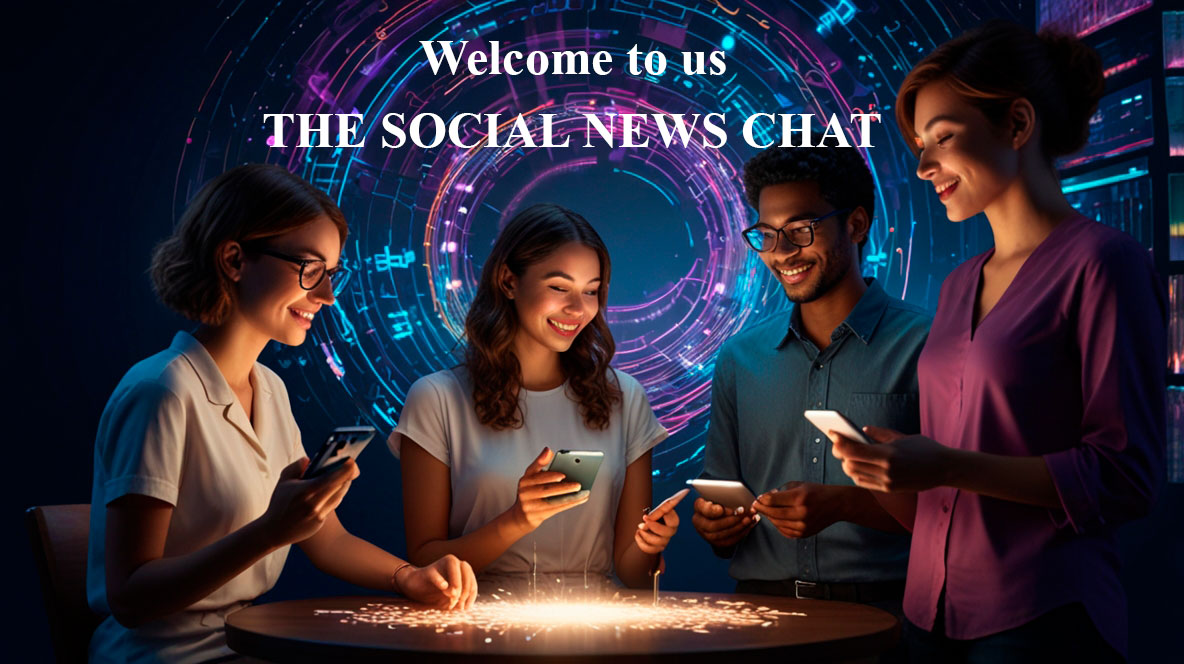
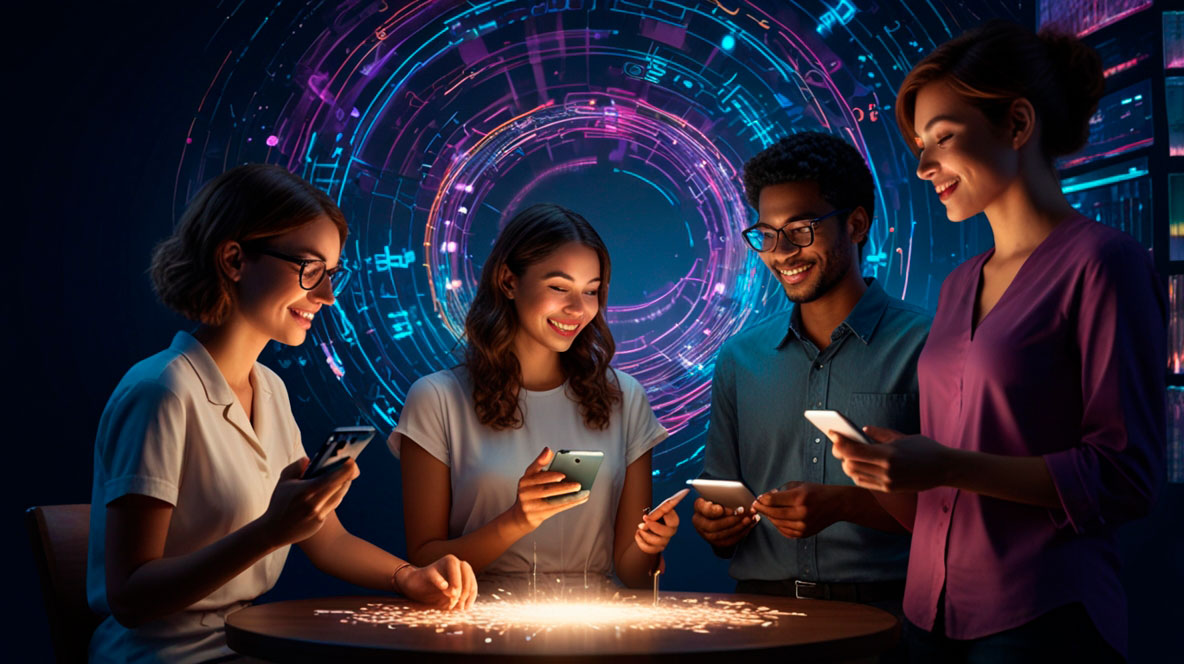
Добавлена приветственная страница, улучшен дизайн base.html, home.html

Changed region(s): [[0.2188, 0.1506, 0.75, 0.241], [0.3438, 0.0602, 0.625, 0.1205]]

diff --git a/templates/base.html b/templates/base.html
@@ -1,5 +1,6 @@
-{% load static %}
 <!DOCTYPE html>
+{% load static %}
+
 <html lang="ru">
 <head>
   <meta charset="UTF-8">
@@ -10,7 +11,6 @@
   <script src="https://cdn.jsdelivr.net/npm/bootstrap@5.3.0/dist/js/bootstrap.bundle.min.js"></script>
 
   <style>
-    /* Устанавливаем фон для страницы */
     body {
         background-image: url("{% static 'images/backgraunt.jpg' %}");
         background-size: cover;
@@ -24,7 +24,7 @@
         flex-direction: column;
     }
 
-        .navbar {
+    .navbar {
         position: fixed;
         top: 0;
         left: 0;
@@ -33,11 +33,11 @@
         background-color: rgba(0, 0, 0, 0.8);
     }
 
-
-    /* Основная обертка с контентом */
-    .content-wrapper {
-        background: rgba(255, 255, 255, 0.6); /* Полупрозрачный фон */
-        min-height: 100px;
+    /* content-wrapper для главной страницы */
+    .content-wrapper.first-page {
+        width: calc(100% - 20mm);
+        background: rgba(255, 255, 255, 0.6);
+        min-height: 800px;
         backdrop-filter: blur(10px);
         -webkit-backdrop-filter: blur(10px);
         border-radius: 12px;
@@ -47,22 +47,44 @@
         flex-grow: 1;
     }
 
-    /* Стили для приветственной карточки */
+    /* content-wrapper для других страниц */
+    .content-wrapper.other-page {
+        width: calc(100% - 20mm);
+        background: rgba(245, 245, 245, 0.85);
+        min-height: 800px;
+        backdrop-filter: blur(6px);
+        -webkit-backdrop-filter: blur(6px);
+        border-radius: 20px;
+        padding: 40px;
+        margin: 40px auto;
+        box-shadow: 0px 8px 40px rgba(0, 0, 0, 0.15);
+        flex-grow: 1;
+    }
+
     .welcome-card {
-        background-color: rgba(0, 123, 255, 0.85); /* Прозрачный синий фон */
+        background-color: rgba(0, 123, 255, 0.85);
         color: white;
         border-radius: 10px;
-        padding: 30px 15px; /* Уменьшаем внутренние отступы */
+        padding: 30px 15px;
         margin-bottom: 30px;
         font-size: 1.5rem;
         text-align: center;
-        max-height: 150px; /* Ограничиваем высоту */
+        max-height: 150px;
         display: flex;
         justify-content: center;
         align-items: center;
     }
 
-    /* Стили для кнопок */
+    .register-card {
+        background: rgba(255, 255, 255, 0.85);
+        backdrop-filter: blur(8px);
+        -webkit-backdrop-filter: blur(8px);
+        border-radius: 15px;
+        box-shadow: 0 8px 24px rgba(0, 0, 0, 0.15);
+        max-width: 800px;
+        margin: 60px auto;
+    }
+
     .btn {
         background-color: #007BFF;
         color: white;
@@ -97,7 +119,6 @@
         font-size: 14px;
     }
 
-    /* Стили для футера */
     footer {
         background-color: rgba(0, 0, 0, 0.6);
         color: white;
@@ -108,14 +129,14 @@
         width: 100%;
         margin-top: auto;
     }
-</style>
+  </style>
 </head>
 <body>
 
 {% include "include/navbar.html" %}
 
 <!-- Основной контент страницы -->
-<div class="content-wrapper">
+<div class="content-wrapper {% if request.path == '/' %}first-page{% else %}other-page{% endif %}">
   <main class="container mt-4">
     {% block content %}
     {% endblock %}

diff --git a/templates/welcome.html b/templates/welcome.html
@@ -1,0 +1,106 @@
+{% load static %}
+<!DOCTYPE html>
+<html lang="ru">
+<head>
+  <meta charset="UTF-8">
+  <title>Добро пожаловать</title>
+  <link href="https://cdn.jsdelivr.net/npm/bootstrap@5.3.0/dist/css/bootstrap.min.css" rel="stylesheet">
+  <style>
+    body {
+      background-image: url("{% static 'images/backgraunt.jpg' %}");
+      background-size: cover;
+      background-position: center;
+      background-attachment: fixed;
+      margin: 0;
+      padding: 0;
+      min-height: 100vh;
+      display: flex;
+      flex-direction: column;
+      font-family: system-ui, sans-serif;
+    }
+
+    .marquee-container {
+      flex: 1;
+      display: flex;
+      flex-direction: column;
+      justify-content: center;
+      align-items: center;
+      position: relative;
+      z-index: 1;
+    }
+
+    .marquee-text {
+      font-size: 66pt; /* вернули как в твоём коде */
+      font-weight: bold;
+      color: white;
+      text-shadow: 2px 2px 6px rgba(0, 0, 0, 0.8);
+      white-space: nowrap;
+      overflow: hidden;
+      position: relative;
+      width: 100%;
+      max-width: 100%;
+      opacity: 0;
+      text-align: center;
+      padding-left: 10mm;
+      padding-right: 10mm;
+    }
+
+    .slide-left {
+      animation: slideLeft 3s ease-out forwards;
+    }
+
+    .slide-down {
+      animation: slideDown 3s ease-out forwards;
+    }
+
+    .slide-right {
+      animation: slideRight 3s ease-out forwards;
+    }
+
+    .delay-1 {
+      animation-delay: 0.5s;
+    }
+
+    .delay-2 {
+      animation-delay: 1.5s;
+    }
+
+    .delay-3 {
+      animation-delay: 2.5s;
+    }
+
+    @keyframes slideLeft {
+      0% { transform: translateX(-100%); opacity: 0; }
+      100% { transform: translateX(0); opacity: 1; }
+    }
+
+    @keyframes slideDown {
+      0% { transform: translateY(-100px); opacity: 0; }
+      100% { transform: translateY(0); opacity: 1; }
+    }
+
+    @keyframes slideRight {
+      0% { transform: translateX(100%); opacity: 0; }
+      100% { transform: translateX(0); opacity: 1; }
+    }
+  </style>
+</head>
+<body>
+
+  {% include "include/navbar.html" %}
+
+  <div class="marquee-container">
+    <div class="marquee-text slide-left delay-1">WELCOME TO</div>
+    <div class="marquee-text slide-down delay-2">THE</div>
+    <div class="marquee-text slide-right delay-3">SOCIAL NEWS CHAT</div>
+  </div>
+
+  {% include "include/footer.html" %}
+
+  <script>
+    setTimeout(function () {
+      window.location.href = "{% url 'home' %}";
+    }, 7000);
+  </script>
+</body>
+</html>

diff --git a/users/templates/users/register.html b/users/templates/users/register.html
@@ -1,33 +1,13 @@
-{% extends "base.html" %}
+{% extends 'base.html' %}
 
 {% block content %}
-<div class="container mt-5">
-    <div class="row justify-content-center">
-        <div class="col-md-6">
-            <div class="card shadow rounded-4">
-                <div class="card-body">
-                    <h3 class="card-title text-center mb-4">Регистрация</h3>
-                    <form method="post">
-                        {% csrf_token %}
-                        {% for field in form %}
-                            <div class="mb-3">
-                                <label class="form-label">{{ field.label_tag }}</label>
-                                {{ field }}
-                                {% if field.errors %}
-                                    <div class="text-danger small">{{ field.errors|striptags }}</div>
-                                {% endif %}
-                            </div>
-                        {% endfor %}
-                        <div class="d-grid">
-                            <button type="submit" class="btn btn-success">Создать аккаунт</button>
-                        </div>
-                    </form>
-                    <div class="mt-3 text-center">
-                        Уже есть аккаунт? <a href="{% url 'login' %}">Войти</a>
-                    </div>
-                </div>
-            </div>
-        </div>
-    </div>
-</div>
+  <div class="container">
+    <h2>Регистрация нового пользователя</h2>
+
+    <form method="POST" enctype="multipart/form-data">
+      {% csrf_token %}
+      {{ form.as_p }}
+      <button type="submit" class="btn btn-primary">Зарегистрироваться</button>
+    </form>
+  </div>
 {% endblock %}

diff --git a/templates/home.html b/templates/home.html
@@ -3,8 +3,25 @@
 {% block title %}Главная - Chatty{% endblock %}
 
 {% block content %}
-    <div style="background-color: rgba(255, 255, 255, 0.9); padding: 20px; border-radius: 10px;">
-        <h1>Добро пожаловать в Chatty!</h1>
-        <p>Теперь навигация должна работать.</p>
-    </div>
+  <style>
+    body {
+      opacity: 0;
+      transition: opacity 2s ease-in;
+    }
+
+    body.fade-in {
+      opacity: 1;
+    }
+  </style>
+
+  <div style="background-color: rgba(255, 255, 255, 0.9); padding: 20px; border-radius: 10px;">
+      <h1>Добро пожаловать в Chatty!</h1>
+      <p>Теперь навигация должна работать.</p>
+  </div>
+
+  <script>
+    window.addEventListener('load', function () {
+      document.body.classList.add('fade-in');
+    });
+  </script>
 {% endblock %}

diff --git a/users/urls.py b/users/urls.py
@@ -4,7 +4,8 @@ from . import views
 from .views import CustomLoginView
 
 urlpatterns = [
-    path('', views.home, name='home'),  # главная страница
+    path('', views.welcome_view, name='welcome'),  # Приветственная страница
+    path('home/', views.home_view, name='home'),  # Основная страница
     path('register/', views.register, name='register'),
     path('login/', CustomLoginView.as_view(template_name='users/login.html'), name='login'),  # используем кастомное представление
     path('logout/', auth_views.LogoutView.as_view(next_page='home'), name='logout'),

diff --git a/users/views.py b/users/views.py
@@ -17,6 +17,13 @@ from django.urls import reverse
 from django.contrib.auth.views import PasswordResetConfirmView
 from django.urls import reverse_lazy
 
+
+def welcome_view(request):
+    return render(request, 'welcome.html')  # Загружаем welcome.html
+
+def home_view(request):
+    return render(request, 'home.html')  # Загружаем основную страницу (base.html)
+
 def home(request):
     return render(request, 'home.html')
 

diff --git a/users/templates/users/templatetags/form_filters.py b/users/templates/users/templatetags/form_filters.py
@@ -1,0 +1,10 @@
+# users/templatetags/form_filters.py
+
+from django import template
+
+register = template.Library()
+
+
+@register.filter(name='add_class')
+def add_class(field, css_class):
+    return field.as_widget(attrs={"class": css_class})
